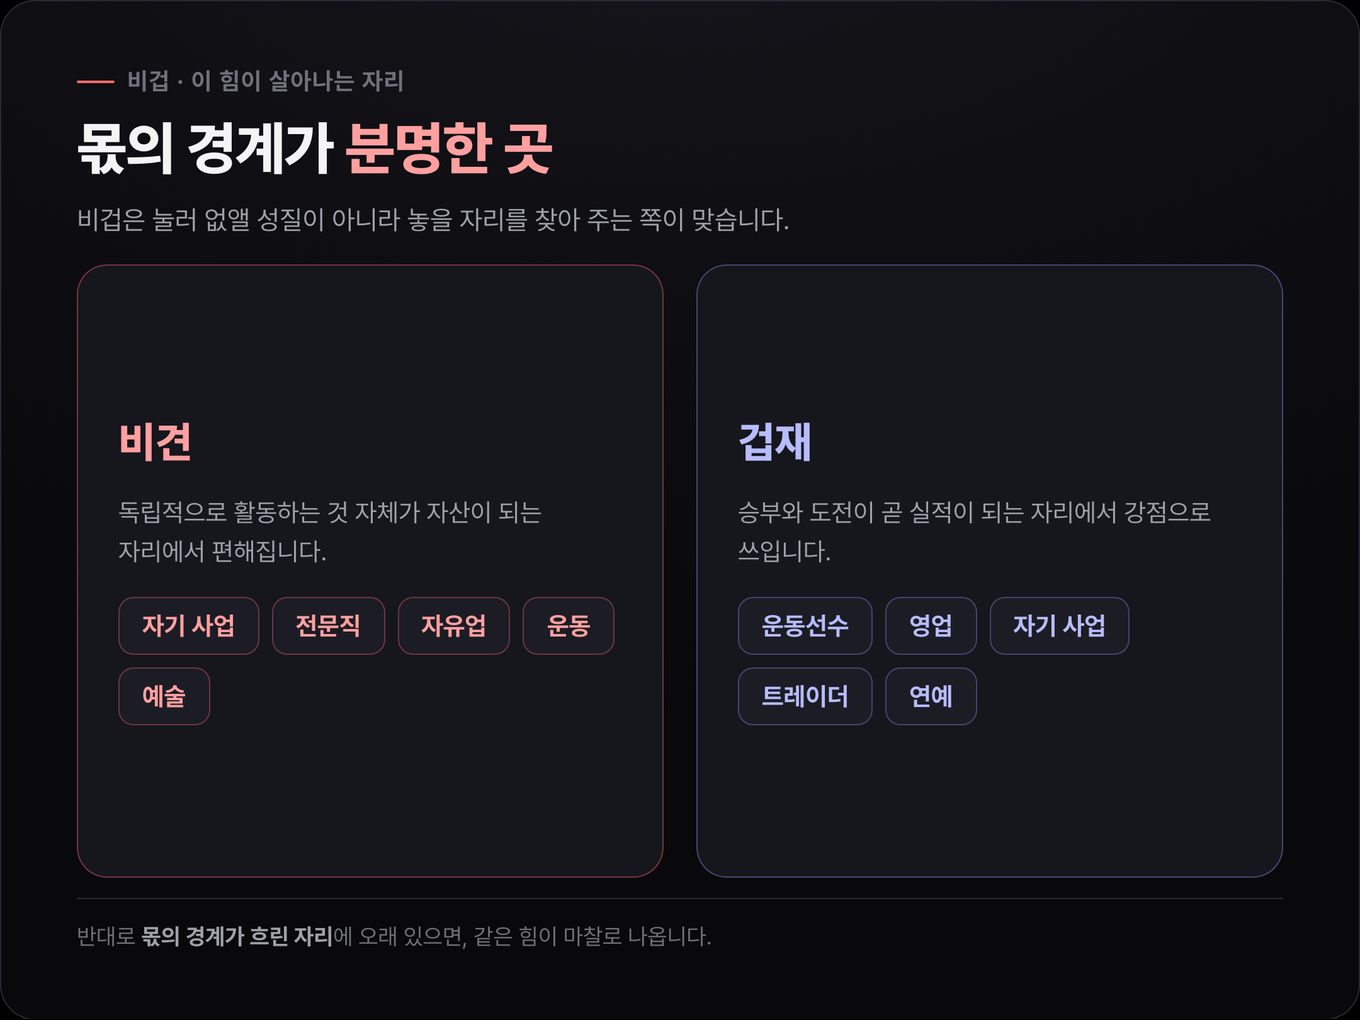
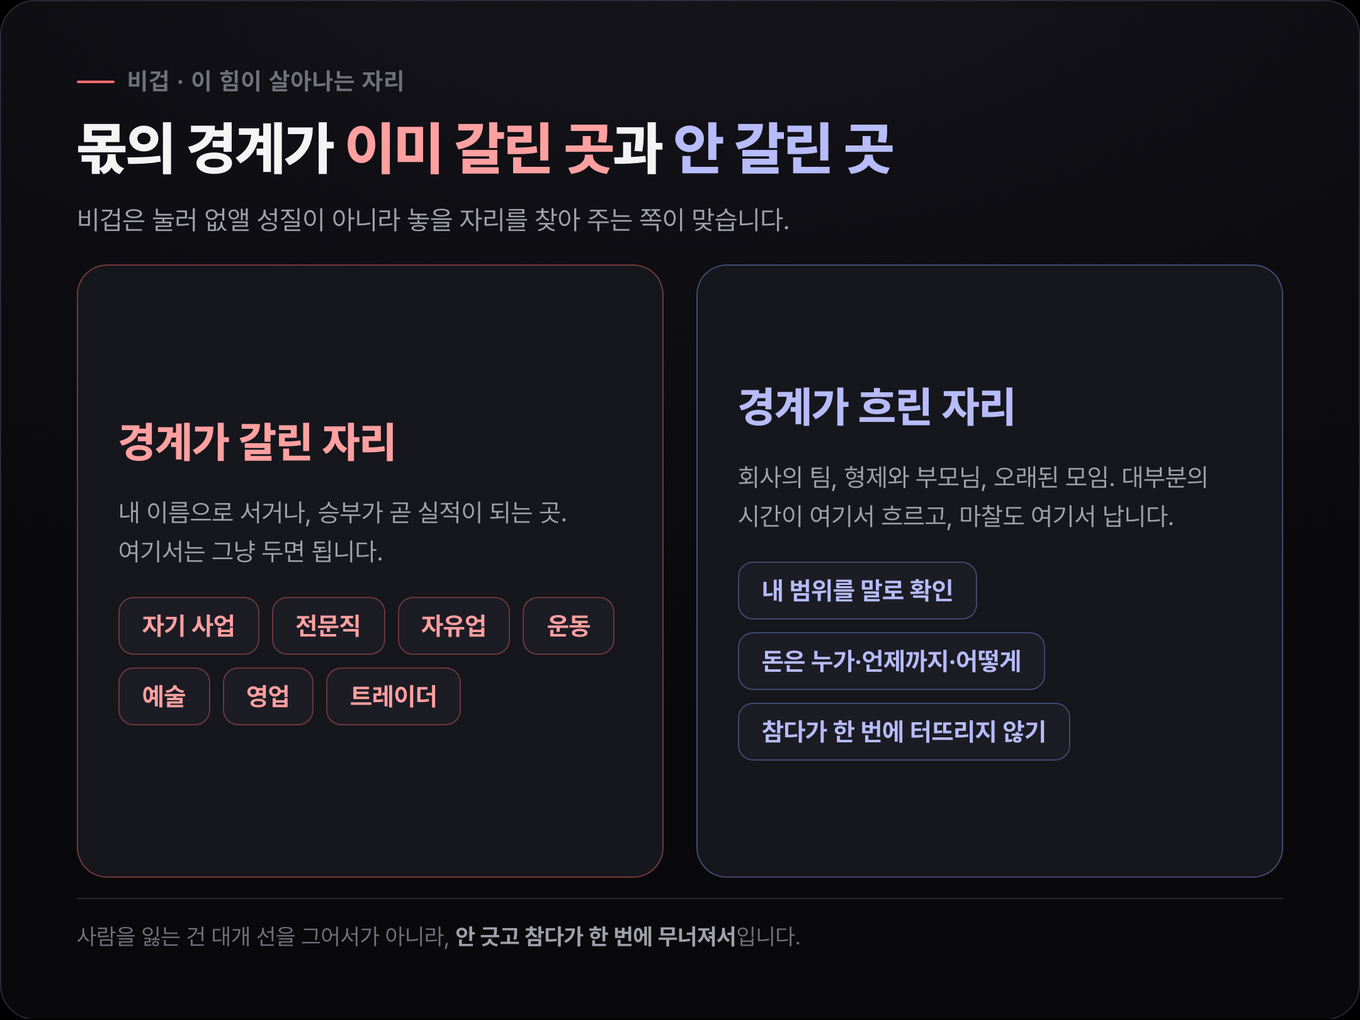
feat(stories): 풍성함 critic 반영 — 신강신약 8단계 카드 신설, 비겁 광맥 개발
## singang-sinyak
- 8단계 표의 동어반복 3행(태약·태강·신약 "매우 약한/강한 상태")에 실질을 채웠다.
  사전 intro에서 판정 기준을 끌어왔다 — 극약=내 오행 0~1개, 태약=결핍 오행 둘 이상,
  극왕=종격을 따로 본다.
- ★8단계 사다리 카드 신설(fig4). 이 글의 유일무이한 자산인데 카드가 없었다.
- 표 안에서만 정의 없이 튀어나오던 "일간"을 걷어냈다. 본문은 끝까지
  "태어난 날의 천간, 그러니까 나를 뜻하는 글자"로 풀어 쓰는데 하필 대표 자산인
  표에서만 전문용어가 나왔다.
- "좋고 나쁨이 아니다"를 10회 → 4회로 줄였다.
- 체크리스트 직후에 긍정 한 줄을 넣었다. 앞뒤로 두 번 무력화한 뒤 CTA가 떠서
  자기진단 모먼트가 죽어 있었다.
- 용신 dict 링크 누락 보완.

## bigyeop-saju
- ★「몫이 안 갈리는 자리에서는 어떻게 쓸까요」 신설. 기존 직업 목록(자기사업·
  트레이더·연예)은 35~54세 여성 독자 대다수에게 해당이 없었다. 회사의 팀,
  형제와 부모님, 오래된 모임 — 비겁이 실제로 마찰을 내는 자리를 다룬다.
  사전이 줄 수 없는 매거진 몫이다.
- fig4를 사전 FAQ 직업 목록 전사에서 "경계가 갈린 자리 / 흐린 자리" 대비로 재설계.
- 「비견」 섹션이 「겁재」보다 얇았다(더 흔한 별이 더 험한 별보다 얇음). 보강.
- "개수보다 강약" 6회 → 3회, callout과 마지막 섹션의 수사 쌍둥이 해소.

## rain-dream
- fig4가 바로 위 체크리스트의 축자 복제였다(10줄 중 8줄 동일). 두 축 종합
  카드로 재설계하고, 어디까지가 전해 온 갈래인지 카드에도 표시했다.
- FAQ 5개 중 4개가 본문 재탕이라 하나를 실제 검색 질문("며칠 연속으로 꿨어요")으로 교체.
- "쪽" 41회 → 25회.

diff --git a/lib/stories/data/singang-sinyak.ts b/lib/stories/data/singang-sinyak.ts
@@ -11,7 +11,7 @@ export const singangSinyak: Story = {
     alt: "양팔저울 한쪽에 올라앉아 반대편 접시를 바라보는 두루미 일러스트",
   },
   intro:
-    "사주를 처음 보러 가면 거의 예외 없이 듣는 말이 있어요. 신강이시네요, 혹은 신약이시네요.\n\n그런데 그 말을 듣고 나면 대개 질문이 하나 남습니다. 그래서 좋은 건가요, 나쁜 건가요.\n\n여기서 이미 한 칸 어긋나 있어요. **신강과 신약은 점수가 아니라 색깔**이거든요. 어느 쪽이 위라는 뜻이 아니라, 흐름이 풀리는 계기가 서로 반대편에 있다는 뜻입니다.\n\n아래는 두루미사주 사주사전의 강약 항목을 풀어 쓴 것입니다. 무엇을 세어서 이 값이 나오는지, 여덟 단계 중 내가 어디쯤인지, 그리고 왜 이 값 하나로 사주를 판정할 수 없는지를 차례로 보겠습니다.",
+    "사주를 처음 보러 가면 거의 예외 없이 듣는 말이 있어요. 신강이시네요, 혹은 신약이시네요.\n\n그런데 그 말을 듣고 나면 대개 질문이 하나 남습니다. 그래서 좋은 건가요, 나쁜 건가요.\n\n여기서 이미 한 칸 어긋나 있어요. **신강과 신약은 점수가 아니라 색깔**입니다. 흐름이 풀리는 계기가 서로 반대편에 있다는 뜻이지, 어느 쪽이 위라는 말이 아니에요.\n\n아래는 두루미사주 사주사전의 강약 항목을 풀어 쓴 것입니다. 무엇을 세어서 이 값이 나오는지, 여덟 단계 중 내가 어디쯤인지, 그리고 왜 이 값 하나로 사주를 판정할 수 없는지를 차례로 보겠습니다.",
   sections: [
     {
       heading: "무엇을 세는 값인가 — 내 편과 상대편",
@@ -93,14 +93,14 @@ export const singangSinyak: Story = {
           kind: "table",
           headers: ["단계", "어느 쪽", "한 줄 설명"],
           rows: [
-            ["극약", "약함", "일간이 사주에서 자리를 거의 못 찾는 상태"],
-            ["태약", "약함", "일간이 매우 약한 상태"],
-            ["신약", "약함", "약한 사주의 표준 단계"],
-            ["중화신약", "가운데", "약한 쪽에 살짝 기운 가장 흔한 사주"],
-            ["중화신강", "가운데", "강한 쪽에 살짝 기운 가장 흔한 사주"],
-            ["신강", "강함", "강한 사주의 표준 단계"],
-            ["태강", "강함", "일간이 매우 강한 상태"],
-            ["극왕", "강함", "사주가 한 오행으로 가득 찬 상태"],
+            ["극약", "약함", "내 오행이 0~1개. 자리를 거의 못 잡아 환경에 휩쓸리기 쉽다"],
+            ["태약", "약함", "결핍 오행이 둘 이상. 상황에 맞춰 색을 바꾸는 성향이 발달한다"],
+            ["신약", "약함", "약한 쪽의 표준. 받침이 작지만 분명히 있다"],
+            ["중화신약", "가운데", "약한 쪽에 살짝 기운, 가장 흔한 자리. 휩쓸리는 인상은 없다"],
+            ["중화신강", "가운데", "강한 쪽에 살짝 기운, 가장 흔한 자리. 추진력과 절제가 함께 있다"],
+            ["신강", "강함", "강한 쪽의 표준. 결단이 빠르고 흔들림이 적다"],
+            ["태강", "강함", "내 편이 압도적. 한번 정하면 잘 안 꺾고 색이 환경에 새겨진다"],
+            ["극왕", "강함", "한 오행으로 가득 참. 일반 강약 논리로 안 풀려 종격을 따로 본다"],
           ],
           caption:
             "사전이 가장 흔하다고 적어 둔 자리는 양쪽 끝이 아니라 가운데 두 칸입니다.",
@@ -113,6 +113,13 @@ export const singangSinyak: Story = {
           kind: "p",
           text: "그래서 신강이라는 말과 극왕이라는 말은 무게가 전혀 다릅니다. 같은 강한 쪽이어도 표준 단계인지 끝자리인지에 따라 읽는 법이 달라져요.",
         },
+        {
+          kind: "image",
+          src: "/stories/figures/singang-sinyak-4.png",
+          alt: "신강신약 8단계 사다리 — 극약·태약·신약·중화신약·중화신강·신강·태강·극왕을 1번부터 8번까지 세로로 배열하고 가운데 두 칸에 '가장 흔함' 표시를 붙인 이미지",
+          caption:
+            "여덟 칸 중 내가 어디쯤인지를 보는 눈금입니다. 가운데 두 칸이 가장 흔한 자리예요.",
+        },
       ],
     },
     {
@@ -124,7 +131,7 @@ export const singangSinyak: Story = {
         },
         {
           kind: "p",
-          text: "신강 사주는 이미 받침이 든든하니 기운을 풀어낼 곳이 필요합니다. 그래서 용신을 식상·재성·관성 쪽에서 잡아요. 표현하고 창작하는 데로 풀리거나, 재물과 실무로 쓰이거나, 직책과 체계 안에서 자리를 다듬는 식입니다.",
+          text: "신강 사주는 이미 받침이 든든하니 기운을 풀어낼 곳이 필요합니다. 그래서 [용신](/dict/yongshin/yongshin)을 식상·재성·관성 쪽에서 잡아요. 표현하고 창작하는 데로 풀리거나, 재물과 실무로 쓰이거나, 직책과 체계 안에서 자리를 다듬는 식입니다.",
         },
         {
           kind: "p",
@@ -180,12 +187,16 @@ export const singangSinyak: Story = {
         },
         {
           kind: "p",
-          text: "다만 이 체크는 성향을 비추는 거울이지 강약 판정이 아닙니다. 실제 값은 태어난 달의 지지가 무엇인지부터 세어야 나와요.",
+          text: "한쪽에 손이 몰리셨다면 그 색깔이 삶에서 자주 드러나는 편입니다. 양쪽에 걸치셨다면 가운데 두 칸, 그러니까 가장 흔한 자리일 가능성이 높고요.",
+        },
+        {
+          kind: "p",
+          text: "다만 이건 성향을 비추는 거울이지 강약 판정은 아닙니다. 실제 값은 태어난 달의 지지가 무엇인지부터 세어야 나와요.",
         },
       ],
     },
     {
-      heading: "강약만으로 사주를 판정하지는 않습니다",
+      heading: "그래서 신강이 유리한가",
       blocks: [
         {
           kind: "p",
@@ -193,7 +204,7 @@ export const singangSinyak: Story = {
         },
         {
           kind: "p",
-          text: "사전은 이 지점을 분명히 적어 뒀습니다. 신강은 본인의 추진력이 강하다는 색깔일 뿐 결과의 좋고 나쁨을 결정하지 않는다고요. 신약 쪽도 마찬가지로, 어느 쪽이 더 좋거나 나쁘지 않고 **좋아지는 운의 종류가 다를 뿐**이라고 적습니다.",
+          text: "사전은 이 지점을 분명히 적어 뒀습니다. 신강은 추진력이 강하다는 **색깔일 뿐 결과를 결정하지 않는다**고요.",
         },
         {
           kind: "p",
@@ -218,7 +229,7 @@ export const singangSinyak: Story = {
             },
             {
               q: "신약 사주는 안 좋은 사주인가요?",
-              a: "아닙니다. 신강과 신약은 등급이 아니라 색깔이에요. 신약은 인성·비겁 운에, 신강은 식상·재성·관성 운에 흐름이 풀리는 식으로 좋아지는 운의 종류가 다를 뿐입니다.",
+              a: "아닙니다. 신약은 인성·비겁 운에, 신강은 식상·재성·관성 운에 흐름이 풀립니다. 기다리는 글자가 서로 반대편일 뿐이에요.",
             },
             {
               q: "오행이 다 갖춰져 있으면 신강인가요?",

diff --git a/lib/stories/data/rain-dream.ts b/lib/stories/data/rain-dream.ts
@@ -26,7 +26,7 @@ export const rainDream: Story = {
         },
         {
           kind: "p",
-          text: "그래서 이 글은 비 꿈을 **밖에서 도착하는 것**으로 놓고 읽습니다. 재물이든 소식이든 근심이든, 내가 만든 게 아니라 위에서 내려온 쪽이라는 뜻이에요.",
+          text: "그래서 이 글은 비 꿈을 **밖에서 도착하는 것**으로 놓고 읽습니다. 재물이든 소식이든 근심이든, 내가 만든 게 아니라 위에서 내려온 것이라는 뜻이에요.",
         },
         {
           kind: "callout",
@@ -48,11 +48,11 @@ export const rainDream: Story = {
         },
         {
           kind: "p",
-          text: "**폭우** 쪽은 결이 다릅니다. 앞이 안 보일 만큼 쏟아지는 비, 몸을 가누기 어려운 비요. 채우는 양을 넘어선 그림이라 감당하기 버거운 일이 한꺼번에 몰린다는 쪽으로 읽어 왔습니다.",
+          text: "**폭우** 쪽은 결이 다릅니다. 앞이 안 보일 만큼 쏟아지는 비, 몸을 가누기 어려운 비요. 채우는 양을 넘어선 그림이라 감당하기 버거운 일이 한꺼번에 몰린다고 읽어 왔습니다.",
         },
         {
           kind: "p",
-          text: "**그친 비**도 한 갈래예요. 비가 멎고 하늘이 열리는 장면, 젖은 땅에 볕이 드는 장면입니다. 지나간 뒤를 보여 주는 그림이라 마무리와 회복 쪽으로 이야기돼 왔어요.",
+          text: "**그친 비**도 한 갈래예요. 비가 멎고 하늘이 열리는 장면, 젖은 땅에 볕이 드는 장면입니다. 지나간 뒤를 보여 주는 그림이라 마무리와 회복으로 이야기돼 왔어요.",
         },
         {
           kind: "image",
@@ -80,9 +80,9 @@ export const rainDream: Story = {
             ["처마 밑에서 그치기를 기다림", "때가 아니라 판단하고 멈춘 자리", "미루는 게 맞는 일인지"],
             ["앞이 안 보이게 쏟아짐", "한꺼번에 몰리는 일로 읽어 온 장면", "지금 일이 겹쳐 있진 않은지"],
             ["창밖의 비를 바라봄", "내 일이 아닌 자리에서 지켜보는 그림", "남의 사정에 마음이 가 있는지"],
-            ["비가 그치고 하늘이 열림", "마무리와 회복 쪽", "정리되어 가는 일이 있는지"],
+            ["비가 그치고 하늘이 열림", "마무리와 회복", "정리되어 가는 일이 있는지"],
             ["옷이 젖어 무거움", "감당한 뒤에 남은 피로", "요즘 체력을 당겨 쓰고 있진 않은지"],
-            ["비를 맞으며 걷는데 개운함", "씻겨 나가는 쪽으로 읽어 온 장면", "털어 낸 일이 있는지"],
+            ["비를 맞으며 걷는데 개운함", "씻겨 나간다고 읽어 온 장면", "털어 낸 일이 있는지"],
             ["빗소리만 오래 들림", "장면이 흐려도 소리가 남는 자리", "요즘 혼자 정리하는 생각이 있는지"],
           ],
           caption:
@@ -99,11 +99,11 @@ export const rainDream: Story = {
         },
         {
           kind: "p",
-          text: "**그냥 맞은 꿈**은 오는 것을 그대로 받는 그림입니다. 개운했다면 씻겨 나가는 쪽으로, 무겁고 불쾌했다면 감당이 벅찬 쪽으로 갈려요. 같은 장면인데 남은 기분이 방향을 정합니다.",
+          text: "**그냥 맞은 꿈**은 오는 것을 그대로 받는 그림입니다. 개운했다면 씻겨 나간 겁니다. 무겁고 불쾌했다면 감당이 벅찼다는 뜻이고요. 같은 장면인데 남은 기분이 방향을 정합니다.",
         },
         {
           kind: "p",
-          text: "**우산을 쓴 꿈**은 가려 받는 그림이에요. 다 받지 않겠다고 이미 정해 둔 상태라, 지금 무언가를 막고 있다는 표시로 읽습니다. 우산이 뒤집히거나 망가졌다면 막으려던 게 잘 안 되고 있다는 쪽이고요.",
+          text: "**우산을 쓴 꿈**은 가려 받는 그림이에요. 다 받지 않겠다고 이미 정해 둔 상태라, 지금 무언가를 막고 있다는 표시로 읽습니다. 우산이 뒤집히거나 망가졌다면 막으려던 게 잘 안 되고 있다는 뜻이고요.",
         },
         {
           kind: "p",
@@ -184,7 +184,7 @@ export const rainDream: Story = {
       blocks: [
         {
           kind: "p",
-          text: "겹치는 항목에 손을 짚어 보세요. 앞의 다섯은 받은 쪽, 뒤의 다섯은 막거나 미룬 쪽입니다.",
+          text: "겹치는 항목에 손을 짚어 보세요. 앞의 다섯은 받은 장면, 뒤의 다섯은 막거나 미룬 장면입니다.",
         },
         {
           kind: "checklist",
@@ -205,14 +205,14 @@ export const rainDream: Story = {
         },
         {
           kind: "p",
-          text: "앞쪽이 많으면 지금은 들어오는 시기고, 뒤쪽이 많으면 무엇을 받고 무엇을 미룰지 한 번 정할 자리입니다. 뒤쪽이 많다고 흉한 일이 예약된 건 아니에요.",
+          text: "앞이 많으면 지금은 들어오는 시기고, 뒤가 많으면 무엇을 받고 무엇을 미룰지 한 번 정할 자리입니다. 뒤쪽이 많다고 흉한 일이 예약된 건 아니에요.",
         },
         {
           kind: "image",
           src: "/stories/figures/rain-dream-4.png",
-          alt: "비 꿈 체크 카드 — 왼쪽 받는 쪽에는 단비·스밈·개운함·갠 하늘, 오른쪽 감당하는 쪽에는 폭우·젖은 옷·망가진 우산·기다림",
+          alt: "비 꿈의 두 축을 겹친 카드 — 1축 얼마나 왔나(단비·폭우·그친 비)와 2축 어떻게 대했나(맞음·우산·피함)를 나란히 놓고, 어디까지가 전해 온 갈래이고 어디부터가 이 글이 얹은 축인지 표시",
           caption:
-            "두 칸의 개수를 견주는 카드입니다. 어느 쪽이 많든 지금 어느 시기인지를 알려 줄 뿐이에요.",
+            "양이 방향을, 태도가 세기를 정합니다. 앞쪽이 전해 온 갈래고 뒤쪽이 이 글이 얹은 축이에요.",
         },
       ],
     },
@@ -244,8 +244,8 @@ export const rainDream: Story = {
               a: "양에 따라 갈립니다. 마른 땅을 적실 만큼 가늘게 온 비는 부족하던 자리가 채워진다고 좋게 봐 왔고, 감당이 안 될 만큼 쏟아진 비는 일이 한꺼번에 몰린다는 쪽으로 읽어 왔어요. 종류보다 양을 먼저 보시면 됩니다.",
             },
             {
-              q: "비를 맞는 꿈은 무슨 뜻인가요?",
-              a: "오는 것을 피하지 않고 그대로 받는 그림입니다. 다만 깨고 난 뒤의 기분이 방향을 갈라요. 개운했다면 씻겨 나가는 쪽, 무겁고 불쾌했다면 지금 감당이 벅차다는 쪽에 가깝습니다.",
+              q: "며칠 연속으로 비 오는 꿈을 꿨어요.",
+              a: "같은 장면이 반복될 때는 꿈보다 요즘 상태를 먼저 보시는 편이 낫습니다. 기다리는 답이 아직 안 왔거나 미뤄 둔 일이 그대로 남아 있을 때 같은 그림이 되풀이되는 경우가 많아요. 전해 오는 풀이도 반복 자체에는 따로 뜻을 붙이지 않습니다. 대신 장면이 조금씩 바뀌었는지, 특히 비의 양과 내 태도가 달라졌는지를 보시면 됩니다.",
             },
             {
               q: "우산을 쓰는 꿈은 어떻게 보나요?",

diff --git a/lib/stories/data/bigyeop-saju.ts b/lib/stories/data/bigyeop-saju.ts
@@ -59,7 +59,20 @@ export const bigyeopSaju: Story = {
         },
         {
           kind: "p",
+          text: "겉으로는 순한데 밀리지 않는 사람이 있죠. 그 결이 비견 쪽입니다. 목소리를 높이지 않고도 내 몫의 선은 그어 두는 편이에요.",
+        },
+        {
+          kind: "p",
           text: "다만 같은 힘이 지나치면 고집과 충돌로 나옵니다. 물러서지 않는 성질이 그대로 부딪힘이 되는 거죠.",
+        },
+        {
+          kind: "p",
+          text: "사전은 여기에 재물 분산도 함께 적어 둡니다. 겁재만큼 세지는 않지만 비견 쪽에도 나눠 갖는 그림이 붙어 있다는 뜻이에요.",
+        },
+        {
+          kind: "callout",
+          tone: "tip",
+          text: "비견은 겁재보다 조용해서 오히려 늦게 드러납니다. 겁재는 그 자리에서 부딪혀 바로 보이는데, 비견은 몇 년 뒤 '그때 그 사람과는 결국 갈라섰지' 하고 알게 되는 쪽이에요.",
         },
       ],
     },
@@ -176,7 +189,7 @@ export const bigyeopSaju: Story = {
         {
           kind: "callout",
           tone: "tip",
-          text: "정리하면 비겁의 개수보다 **내 사주가 지금 받침이 필요한 쪽인지 풀어낼 곳이 필요한 쪽인지**가 먼저입니다. 같은 두 글자가 사람에 따라 정반대로 작용해요.",
+          text: "그러니 비겁을 셀 때 물어야 할 건 몇 개냐가 아닙니다. **지금 내 사주가 받침이 필요한 상태인가, 아니면 넘치는 힘을 내보낼 통로가 필요한 상태인가.** 답이 갈리면 같은 두 글자가 정반대 이름으로 읽힙니다.",
         },
       ],
     },
@@ -200,15 +213,45 @@ export const bigyeopSaju: Story = {
           text: "공통점이 보이시죠. 둘 다 **내 몫이 분명하게 갈라지는 구조**에서 편해집니다. 반대로 몫의 경계가 흐린 자리에 오래 있으면 같은 힘이 마찰로 나와요.",
         },
         {
-          kind: "image",
-          src: "/stories/figures/bigyeop-saju-4.png",
-          alt: "비겁이 강점으로 쓰이는 자리 정리 카드 — 비견은 자기 사업·전문직·자유업·운동·예술, 겁재는 운동선수·영업·자기 사업·트레이더·연예",
-          caption:
-            "둘 다 내 몫의 경계가 분명한 자리에서 힘이 살아납니다.",
+          kind: "p",
+          text: "동업을 아예 하지 말라는 뜻은 아닙니다. 다만 비겁이 센 분이라면 시작할 때 몫과 역할을 문서로 갈라 두는 편이, 나중에 사람을 잃지 않는 방법이에요.",
+        },
+      ],
+    },
+    {
+      heading: "몫이 안 갈리는 자리에서는 어떻게 쓸까요",
+      blocks: [
+        {
+          kind: "p",
+          text: "여기까지 읽고 이런 생각이 드셨을 수 있어요. 나는 사업도 안 하고 운동선수도 아닌데.",
         },
         {
           kind: "p",
-          text: "동업을 아예 하지 말라는 뜻은 아닙니다. 다만 비겁이 센 분이라면 시작할 때 몫과 역할을 문서로 갈라 두는 편이, 나중에 사람을 잃지 않는 방법이에요.",
+          text: "맞습니다. 대부분의 시간은 몫이 딱 갈리지 않는 자리에서 흘러가요. 회사의 팀, 형제와 부모님, 오래된 모임 같은 데서요. 비겁이 실제로 마찰을 내는 곳도 거기고요.",
+        },
+        {
+          kind: "p",
+          text: "규칙은 하나입니다. **경계가 없는 자리에서는 내가 경계를 만든다.** 비겁이 센 사람은 경계가 흐리면 불편해지는데, 그 불편을 참다가 한 번에 터뜨리는 쪽으로 가거든요.",
+        },
+        {
+          kind: "p",
+          text: "회사라면 내가 맡은 범위를 말로 한 번 확인해 두는 것으로 충분합니다. 시키는 사람이 정해 주기를 기다리지 않는 편이 나아요. 애매한 채로 두면 결국 내가 더 하고 덜 인정받습니다."
+        },
+        {
+          kind: "p",
+          text: "형제나 부모님 사이의 돈은 특히 그렇습니다. 사전이 비겁에 재물 분산을 붙여 둔 자리가 현실에서는 대개 여기예요. 액수보다 **누가 언제까지 어떻게**를 말로 남겨 두는 쪽이 관계를 지킵니다.",
+        },
+        {
+          kind: "callout",
+          tone: "tip",
+          text: "정 없어 보일까 봐 망설여지시죠. 그런데 비겁이 센 분들이 사람을 잃는 건 대개 선을 그어서가 아니라, 안 긋고 참다가 한 번에 무너져서입니다.",
+        },
+        {
+          kind: "image",
+          src: "/stories/figures/bigyeop-saju-4.png",
+          alt: "몫의 경계가 이미 갈린 자리와 안 갈린 자리를 나눈 카드 — 왼쪽은 자기 사업·전문직·자유업·운동·예술·영업·트레이더, 오른쪽은 회사·형제·모임에서 경계를 만드는 방법",
+          caption:
+            "왼쪽은 그냥 두면 되는 자리, 오른쪽은 내가 경계를 만들어야 하는 자리입니다.",
         },
       ],
     },
@@ -217,15 +260,11 @@ export const bigyeopSaju: Story = {
       blocks: [
         {
           kind: "p",
-          text: "비겁은 사주에서 가장 나와 가까운 자리입니다. 가까운 만큼 내 편도 되고, 가까운 만큼 같은 것을 탐하기도 하고요.",
+          text: "비겁은 사주에서 나와 가장 가까운 자리입니다. 가까운 만큼 내 편도 되고, 가까운 만큼 같은 것을 탐하기도 하고요.",
         },
         {
           kind: "p",
-          text: "그래서 이 자리를 읽을 때 던질 질문은 많으냐 적으냐가 아닙니다. **지금 내 사주가 받쳐 줄 손이 필요한 상태인가, 아니면 넘치는 힘을 내보낼 통로가 필요한 상태인가.** 답이 갈리면 같은 비겁이 정반대 이름으로 읽힙니다.",
-        },
-        {
-          kind: "p",
-          text: "그 답은 여덟 글자를 다 세워야 나옵니다. 비겁이 몇이고 재성이 어디에 앉았는지, 그리고 지금 대운이 어느 쪽을 밀어 주고 있는지까지요.",
+          text: "비겁이 몇이고 재성이 어디에 앉았는지, 지금 대운이 어느 쪽을 밀어 주고 있는지 — 그 셋이 모이면 이 자리가 내게 우군인지 과잉인지가 나옵니다.",
         },
       ],
     },
